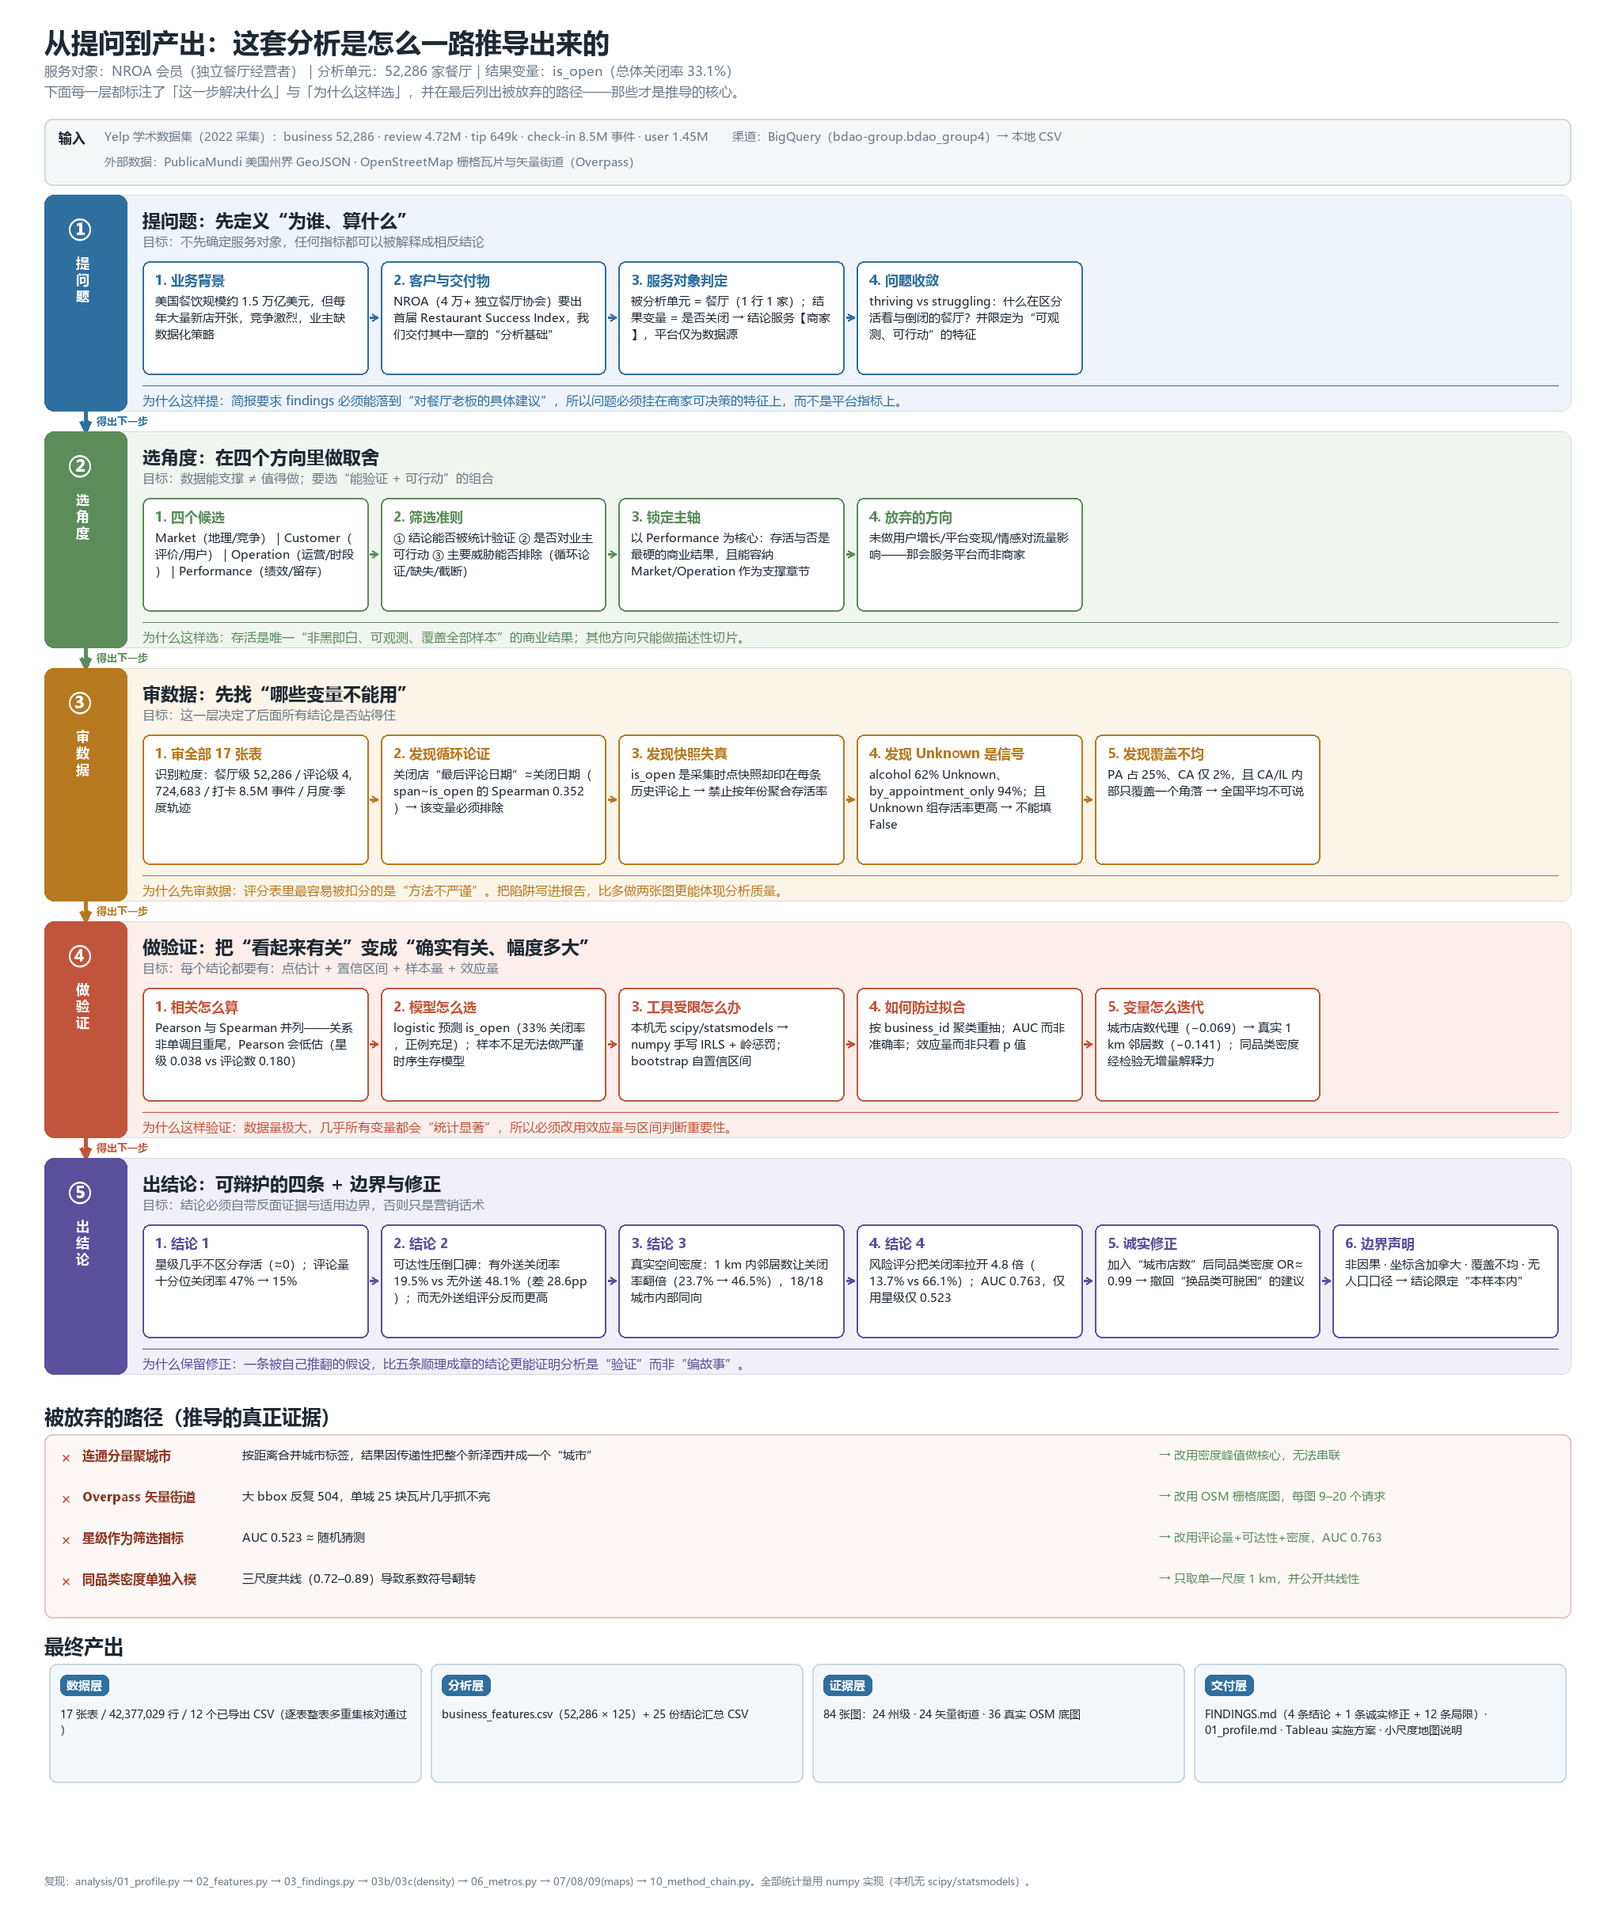
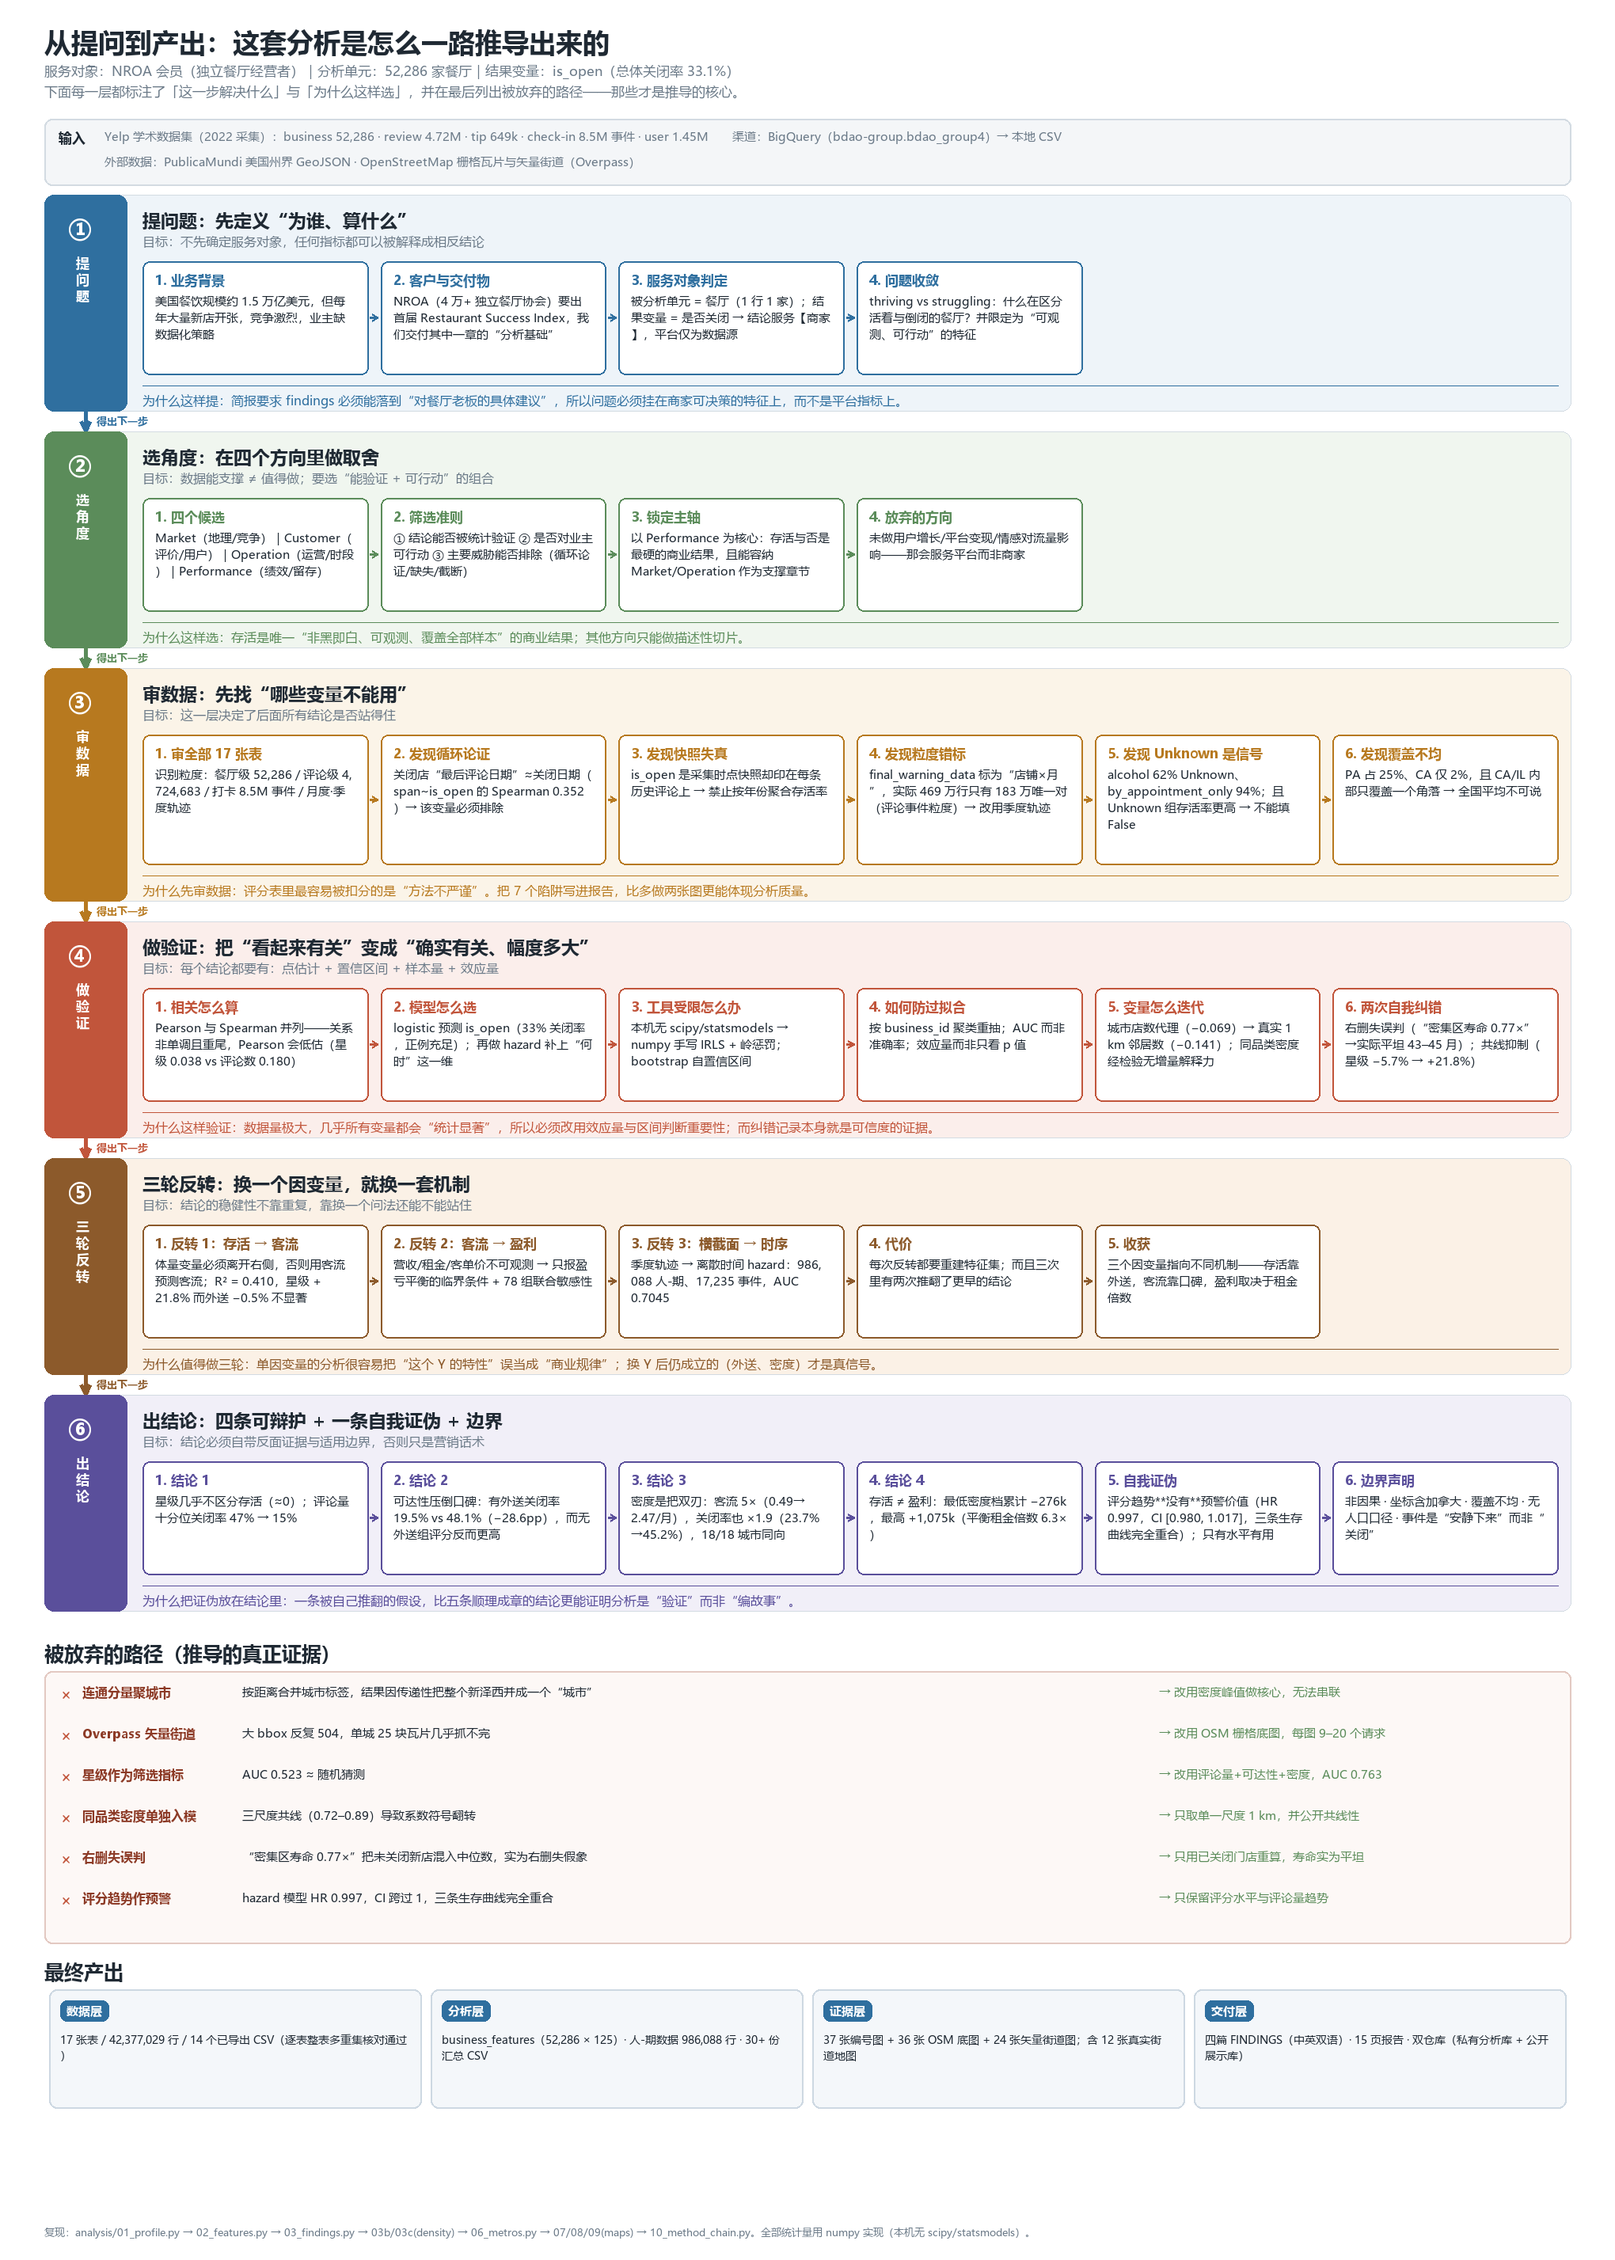
Regenerate the method-chain diagram for all four analyses
fig20 was drawn after the survival analysis and never updated: it showed five
layers ending at the survival conclusions, listed 5 data traps (there are 7) and
4 abandoned paths, and still claimed 84 figures / 25 CSVs. Both READMEs embed it
as the centrepiece, so it had become the most misleading artefact here.

Changes:
- new layer 5, the three reversals (survival -> traffic -> profit -> time series)
- sixth trap (final_warning_data mislabelled grain)
- sixth validation step (the two self-corrections)
- sixth conclusion (the refuted rating-trend hypothesis)
- two more abandoned paths: the censoring misjudgement and the rating-trend alert
- output counts corrected; block heights now follow list length instead of being
  hardcoded (the 6th rejected path was overlapping the outputs block)

README: 'Three findings' -> 'Four findings', 29 -> 37 figures.

diff --git a/code/10_method_chain.py b/code/10_method_chain.py
@@ -63,10 +63,11 @@ LANES = [
             ("审全部 17 张表", "识别粒度：餐厅级 52,286 / 评论级 4,724,683 / 打卡 8.5M 事件 / 月度·季度轨迹"),
             ("发现循环论证", "关闭店“最后评论日期”≈关闭日期（span~is_open 的 Spearman 0.352）→ 该变量必须排除"),
             ("发现快照失真", "is_open 是采集时点快照却印在每条历史评论上 → 禁止按年份聚合存活率"),
+            ("发现粒度错标", "final_warning_data 标为“店铺×月”，实际 469 万行只有 183 万唯一对（评论事件粒度）→ 改用季度轨迹"),
             ("发现 Unknown 是信号", "alcohol 62% Unknown、by_appointment_only 94%；且 Unknown 组存活率更高 → 不能填 False"),
             ("发现覆盖不均", "PA 占 25%、CA 仅 2%，且 CA/IL 内部只覆盖一个角落 → 全国平均不可说"),
         ],
-        "why": "为什么先审数据：评分表里最容易被扣分的是“方法不严谨”。把陷阱写进报告，比多做两张图更能体现分析质量。",
+        "why": "为什么先审数据：评分表里最容易被扣分的是“方法不严谨”。把 7 个陷阱写进报告，比多做两张图更能体现分析质量。",
     },
     {
         "no": "④", "title": "做验证：把“看起来有关”变成“确实有关、幅度多大”",
@@ -74,26 +75,40 @@ LANES = [
         "colour": "#c1553b", "tint": "#fbeeeb",
         "steps": [
             ("相关怎么算", "Pearson 与 Spearman 并列——关系非单调且重尾，Pearson 会低估（星级 0.038 vs 评论数 0.180）"),
-            ("模型怎么选", "logistic 预测 is_open（33% 关闭率，正例充足）；样本不足无法做严谨时序生存模型"),
+            ("模型怎么选", "logistic 预测 is_open（33% 关闭率，正例充足）；再做 hazard 补上“何时”这一维"),
             ("工具受限怎么办", "本机无 scipy/statsmodels → numpy 手写 IRLS + 岭惩罚；bootstrap 自置信区间"),
             ("如何防过拟合", "按 business_id 聚类重抽；AUC 而非准确率；效应量而非只看 p 值"),
             ("变量怎么迭代", "城市店数代理（−0.069）→ 真实 1 km 邻居数（−0.141）；同品类密度经检验无增量解释力"),
+            ("两次自我纠错", "右删失误判（“密集区寿命 0.77×”→实际平坦 43–45 月）；共线抑制（星级 −5.7% → +21.8%）"),
         ],
-        "why": "为什么这样验证：数据量极大，几乎所有变量都会“统计显著”，所以必须改用效应量与区间判断重要性。",
+        "why": "为什么这样验证：数据量极大，几乎所有变量都会“统计显著”，所以必须改用效应量与区间判断重要性；而纠错记录本身就是可信度的证据。",
     },
     {
-        "no": "⑤", "title": "出结论：可辩护的四条 + 边界与修正",
+        "no": "⑤", "title": "三轮反转：换一个因变量，就换一套机制",
+        "goal": "结论的稳健性不靠重复，靠换一个问法还能不能站住",
+        "colour": "#8c5a2b", "tint": "#fbf1e6",
+        "steps": [
+            ("反转 1：存活 → 客流", "体量变量必须离开右侧，否则用客流预测客流；R² = 0.410，星级 +21.8% 而外送 −0.5% 不显著"),
+            ("反转 2：客流 → 盈利", "营收/租金/客单价不可观测 → 只报盈亏平衡的临界条件 + 78 组联合敏感性"),
+            ("反转 3：横截面 → 时序", "季度轨迹 → 离散时间 hazard：986,088 人-期、17,235 事件，AUC 0.7045"),
+            ("代价", "每次反转都要重建特征集；而且三次里有两次推翻了更早的结论"),
+            ("收获", "三个因变量指向不同机制——存活靠外送，客流靠口碑，盈利取决于租金倍数"),
+        ],
+        "why": "为什么值得做三轮：单因变量的分析很容易把“这个 Y 的特性”误当成“商业规律”；换 Y 后仍成立的（外送、密度）才是真信号。",
+    },
+    {
+        "no": "⑥", "title": "出结论：四条可辩护 + 一条自我证伪 + 边界",
         "goal": "结论必须自带反面证据与适用边界，否则只是营销话术",
         "colour": "#5a4f9b", "tint": "#f1eff8",
         "steps": [
             ("结论 1", "星级几乎不区分存活（≈0）；评论量十分位关闭率 47% → 15%"),
-            ("结论 2", "可达性压倒口碑：有外送关闭率 19.5% vs 无外送 48.1%（差 28.6pp）；而无外送组评分反而更高"),
-            ("结论 3", "真实空间密度：1 km 内邻居数让关闭率翻倍（23.7% → 46.5%），18/18 城市内部同向"),
-            ("结论 4", "风险评分把关闭率拉开 4.8 倍（13.7% vs 66.1%）；AUC 0.763，仅用星级仅 0.523"),
-            ("诚实修正", "加入“城市店数”后同品类密度 OR≈0.99 → 撤回“换品类可脱困”的建议"),
-            ("边界声明", "非因果 · 坐标含加拿大 · 覆盖不均 · 无人口口径 → 结论限定“本样本内”"),
+            ("结论 2", "可达性压倒口碑：有外送关闭率 19.5% vs 48.1%（−28.6pp），而无外送组评分反而更高"),
+            ("结论 3", "密度是把双刃：客流 5×（0.49→2.47/月），关闭率也 ×1.9（23.7%→45.2%），18/18 城市同向"),
+            ("结论 4", "存活 ≠ 盈利：最低密度档累计 −276k，最高 +1,075k（平衡租金倍数 6.3×）"),
+            ("自我证伪", "评分趋势**没有**预警价值（HR 0.997，CI [0.980, 1.017]，三条生存曲线完全重合）；只有水平有用"),
+            ("边界声明", "非因果 · 坐标含加拿大 · 覆盖不均 · 无人口口径 · 事件是“安静下来”而非“关闭”"),
         ],
-        "why": "为什么保留修正：一条被自己推翻的假设，比五条顺理成章的结论更能证明分析是“验证”而非“编故事”。",
+        "why": "为什么把证伪放在结论里：一条被自己推翻的假设，比五条顺理成章的结论更能证明分析是“验证”而非“编故事”。",
     },
 ]
 
@@ -102,13 +117,15 @@ REJECTED = [
     ("Overpass 矢量街道", "大 bbox 反复 504，单城 25 块瓦片几乎抓不完", "改用 OSM 栅格底图，每图 9–20 个请求"),
     ("星级作为筛选指标", "AUC 0.523 ≈ 随机猜测", "改用评论量+可达性+密度，AUC 0.763"),
     ("同品类密度单独入模", "三尺度共线（0.72–0.89）导致系数符号翻转", "只取单一尺度 1 km，并公开共线性"),
+    ("右删失误判", "“密集区寿命 0.77×”把未关闭新店混入中位数，实为右删失假象", "只用已关闭门店重算，寿命实为平坦"),
+    ("评分趋势作预警", "hazard 模型 HR 0.997，CI 跨过 1，三条生存曲线完全重合", "只保留评分水平与评论量趋势"),
 ]
 
 OUTPUTS = [
-    ("数据层", "17 张表 / 42,377,029 行 / 12 个已导出 CSV（逐表整表多重集核对通过）"),
-    ("分析层", "business_features.csv（52,286 × 125）+ 25 份结论汇总 CSV"),
-    ("证据层", "84 张图：24 州级 · 24 矢量街道 · 36 真实 OSM 底图"),
-    ("交付层", "FINDINGS.md（4 条结论 + 1 条诚实修正 + 12 条局限）· 01_profile.md · Tableau 实施方案 · 小尺度地图说明"),
+    ("数据层", "17 张表 / 42,377,029 行 / 14 个已导出 CSV（逐表整表多重集核对通过）"),
+    ("分析层", "business_features（52,286 × 125）· 人-期数据 986,088 行 · 30+ 份汇总 CSV"),
+    ("证据层", "37 张编号图 + 36 张 OSM 底图 + 24 张矢量街道图；含 12 张真实街道地图"),
+    ("交付层", "四篇 FINDINGS（中英双语）· 15 页报告 · 双仓库（私有分析库 + 公开展示库）"),
 ]
 
 
@@ -147,8 +164,12 @@ def main():
 
     head_h = 150
     strip_h = 96
+    # heights must follow the actual number of rejected paths / output cards, not
+    # hardcoded values: the list grew from 4 to 6 and silently overlapped the
+    # "最终产出" block
+    rejected_h = 32 + len(REJECTED) * 52
     total = head_h + strip_h + sum(lane_heights) + LANE_GAP * len(LANES) \
-        + 40 + 240 + 40 + 260 + 70
+        + 40 + 40 + rejected_h + 40 + 260 + 70
 
     img = Image.new("RGB", (W, int(total)), "#ffffff")
     d = ImageDraw.Draw(img)
@@ -244,7 +265,7 @@ def main():
     y += 10
     d.text((MARGIN, y), "被放弃的路径（推导的真正证据）", font=font(25, True), fill=INK)
     y += 40
-    rounded_box(img, d, MARGIN, y, W - MARGIN * 2, 232, "#fdf8f6", "#e3c9c2")
+    rounded_box(img, d, MARGIN, y, W - MARGIN * 2, rejected_h, "#fdf8f6", "#e3c9c2")
     ry = y + 16
     for name, why, fix in REJECTED:
         # ASCII-safe mark: the ✓/✕ glyphs are missing from the CJK fonts used here
@@ -253,7 +274,7 @@ def main():
         d.text((MARGIN + 250, ry), why, font=font(15), fill=INK)
         d.text((W - MARGIN - 520, ry), "→ " + fix, font=font(15), fill="#5b8c5a")
         ry += 52
-    y += 250
+    y += rejected_h + 18
 
     # ---------------- outputs
     d.text((MARGIN, y), "最终产出", font=font(25, True), fill=INK)

diff --git a/README.md b/README.md
@@ -26,7 +26,7 @@ I ran the same dataset three times with three different dependent variables:
 | 2 | Check-ins per active month | What actually brings customers through the door? |
 | 3 | Modelled cumulative profit | Is a long life worth more than a busy one? |
 
-## Three findings
+## Four findings
 
 **1. Reviews drive traffic; delivery drives survival — and the two barely overlap.**
 
@@ -126,7 +126,7 @@ BigQuery export → data audit → feature engineering → survival model
                 → profit scenario + joint sensitivity → figures → report
 ```
 
-The 29 figures and the full write-up are in this repository. Statistical work:
+The 37 figures and the full write-up are in this repository. Statistical work:
 
 | Step | Method |
 |---|---|
